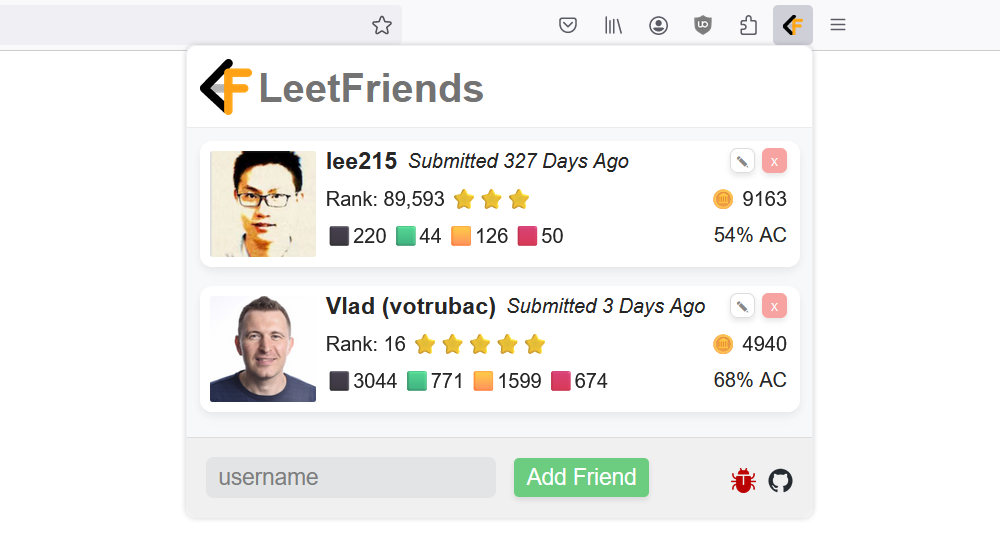
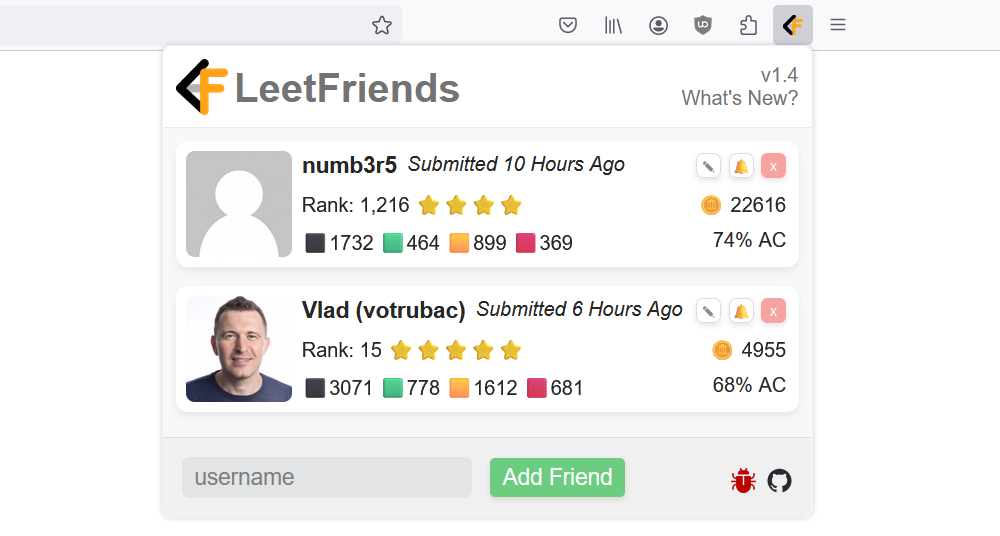
Version 1.4

diff --git a/popup/leet_friends.html b/popup/leet_friends.html
@@ -15,7 +15,7 @@
       <div class="flex-fill">
         <div id="header-info">
           <p>v1.4</p>
-          <a href="https://github.com/ericanderson2/leet-friends/blob/main/version_history.md">What's New?</a>
+          <p><a target="_blank" href="https://github.com/ericanderson2/leet-friends/blob/main/version_history.md">What's New?</a></p>
         </div>
       </div>
     </div>
@@ -27,7 +27,7 @@
         <div class="flex">
           <button type="button" id="enable-perms">Enable permissions</button>
           <div class="tiny-box">
-            <a class="tiny-button" href="https://github.com/ericanderson2/leet-friends">
+            <a class="tiny-button" target="_blank" href="https://github.com/ericanderson2/leet-friends">
               <img class="tiny-img" src="../images/github-mark.png" alt="github logo" />
             </a>
           </div>
@@ -38,9 +38,9 @@
       <!-- blueprint
       <div class="friend-box flex" id="lee">
         <img src="https://assets.leetcode.com/users/lee215/avatar_1551541889.png" class="avatar" alt="avatar"/>
-        <div class="flex-fill" class="east-of-avatar">
+        <div class="east-of-avatar flex">
           <div class="flex user-row">
-            <h3><a href="https://leetcode.com/lee215">Lee (lee215)</a></h3>
+            <h3><a target="_blank" href="https://leetcode.com/lee215">Lee (lee215)</a></h3>
             <p class="last-online">Submitted 1200 Days Ago</p>
             <div class="flex-fill">
               <button class="friend-button remove-button">x</button>
@@ -85,10 +85,10 @@
       </div>
       <div class="flex flex-fill">
         <div class="tiny-box">
-          <a class="tiny-button" href="https://github.com/ericanderson2/leet-friends/issues">
+          <a class="tiny-button" target="_blank" href="https://github.com/ericanderson2/leet-friends/issues">
             <img class="tiny-img" src="../images/bug.png" alt="bug" />
           </a>
-          <a class="tiny-button" href="https://github.com/ericanderson2/leet-friends">
+          <a class="tiny-button" target="_blank" href="https://github.com/ericanderson2/leet-friends">
             <img class="tiny-img" src="../images/github-mark.png" alt="github logo" />
           </a>
         </div>

diff --git a/scripts/background.js b/scripts/background.js
@@ -7,6 +7,8 @@ if (typeof browser == "undefined") {
 let last_submission_time = {};
 let question_cache = {};
 
+let notification_counter = 0;
+
 browser.runtime.onMessage.addListener(
   function(url, sender, onSuccess) {
     fetch(url).then(response => response.json()).then(data => onSuccess(data["data"]));
@@ -16,7 +18,7 @@ browser.runtime.onMessage.addListener(
 
 browser.notifications.onClicked.addListener((id, index) => {
   browser.tabs.create({
-    url: "https://leetcode.com/" + id,
+    url: "https://leetcode.com/" + id.split(":")[0],
   });
 });
 
@@ -30,6 +32,7 @@ function keep_alive() {
 
 // Check if a user has made a recent submission, and send a notification if so
 async function check_last_submission(username, aliases) {
+  console.log("checking " + username);
   let url = `https://leetcode.com/graphql/?query=query{
     recentSubmissionList(username: "${username}", limit: 1) {
         title
@@ -50,6 +53,9 @@ async function check_last_submission(username, aliases) {
   let submission = json["data"]["recentSubmissionList"][0];
   let last_time = last_submission_time[username] ?? -1;
 
+  console.log("last_time: " + last_time);
+  console.log("current: " + submission["timestamp"]);
+
   if (submission["timestamp"] != last_time) {
     if (last_time > -1) {
       let id = await get_question_num(submission["titleSlug"]);
@@ -59,7 +65,9 @@ async function check_last_submission(username, aliases) {
       if (username in aliases) {
         title = `${aliases[username]} (${username}) made a submission`;
       }
-      browser.notifications.create(username, {
+
+      notification_counter += 1;
+      browser.notifications.create(username + ":" + notification_counter, {
         type: "basic",
         iconUrl: "../images/lf_logo.png",
         title,
@@ -72,6 +80,7 @@ async function check_last_submission(username, aliases) {
 
 // Check if any friends on the watchlist have made a recent submission
 function get_friend_updates() {
+  console.log("polling for updates");
   let aliases = {};
   browser.storage.sync.get("aliases").then(res => {
     aliases = res.aliases || {};

diff --git a/popup/main.js b/popup/main.js
@@ -200,6 +200,7 @@ function remove_friend(username) {
 
 function edit_friend(username) {
   document.getElementById("eoa-" + username).classList.add("hidden");
+  console.log(document.getElementById("eoa-" + username));
   document.getElementById("edit-alias-" + username).classList.remove("hidden");
 }
 
@@ -298,9 +299,9 @@ function create_friend_box(data) {
   var div = document.createElement("div");
   // All values have been sanitized
   div.innerHTML = `<img src="${avatar}" class="avatar" alt="avatar"/>
-    <div class="flex-fill" class="east-of-avatar" id="eoa-${user}">
+    <div class="east-of-avatar flex" id="eoa-${user}">
       <div class="flex user-row">
-        <h3><a href="https://leetcode.com/${user}" id="headline-${user}">${headline}</a></h3>
+        <h3><a target="_blank" href="https://leetcode.com/${user}" id="headline-${user}">${headline}</a></h3>
         <p class="last-online">Submitted ${(days > -1) ? days : "∞"} ${(minutes) ? "Minute" : ((hours) ? "Hour" : "Day")}${(days == 1) ? "" : "s"} Ago</p>
         <div class="flex-fill">
           <button class="friend-button remove-button" id="rm-${user}">x</button>

diff --git a/popup/style.css b/popup/style.css
@@ -14,6 +14,10 @@ body {
   background-color: #f7f8fa;
 }
 
+p {
+  font-size: 16px;
+}
+
 a {
   text-decoration: none;
 }
@@ -111,8 +115,11 @@ input:focus {
 }
 
 .east-of-avatar {
-  margin-top: 5px;
-  margin-bottom: 5px;
+  flex-direction: column;
+  justify-content: space-around;
+  width: 100%;
+  padding-top: 5px;
+  padding-bottom: 5px;
 }
 
 .last-online {
@@ -121,10 +128,8 @@ input:focus {
   margin-right: 5px;
 }
 
-.user-row {
-  align-items: center;
-  padding-top: 5px;
-  padding-bottom: 3px;
+.user-row h3 {
+  font-size: 18px;
 }
 
 .friend-button {
@@ -246,6 +251,7 @@ input:focus {
   color: #0000008c;
   padding-top: 5px;
   margin-left: 5px;
+  font-size: 32px;
 }
 
 #header img {

diff --git a/version_history.md b/version_history.md
@@ -1,6 +1,14 @@
 # Version History
 
-# 1.3
+## 1.4
+Firefox: 03/05/2024
+
+- Added support for Chromium browsers!
+- Notifications now show the question number
+- Fix CSS to give the same appearance on Firefox and Chrome
+- Remove alarms permission: use runtime.getPlatformInfo() to keep the script alive instead
+
+## 1.3
 Firefox: 02/28/2024
 
 - Added push notifications on friend submission. Notifications are off by default. Toggle the bell button on a friend in order to be notified whenever they make a submission.
@@ -8,7 +16,7 @@ Firefox: 02/28/2024
 - Require alarms permission: Used to keep background script loaded
 - Require tabs permission: Allows notification bubbles to link to user profile
 
-# 1.2
+## 1.2
 Firefox: 02/27/2024
 
 - Added granularity to last submitted time (minutes, hours)

diff --git a/README.md b/README.md
@@ -31,4 +31,3 @@ Once you add a friend, they will remain in your friends list until they are remo
 - Storage (to store friend usernames)
 - Notifications (to show notifications for a friend, if toggled)
 - Tabs (allows notifications to link to user profile)
-- Alarms (to keep background script loaded for push notifications)
